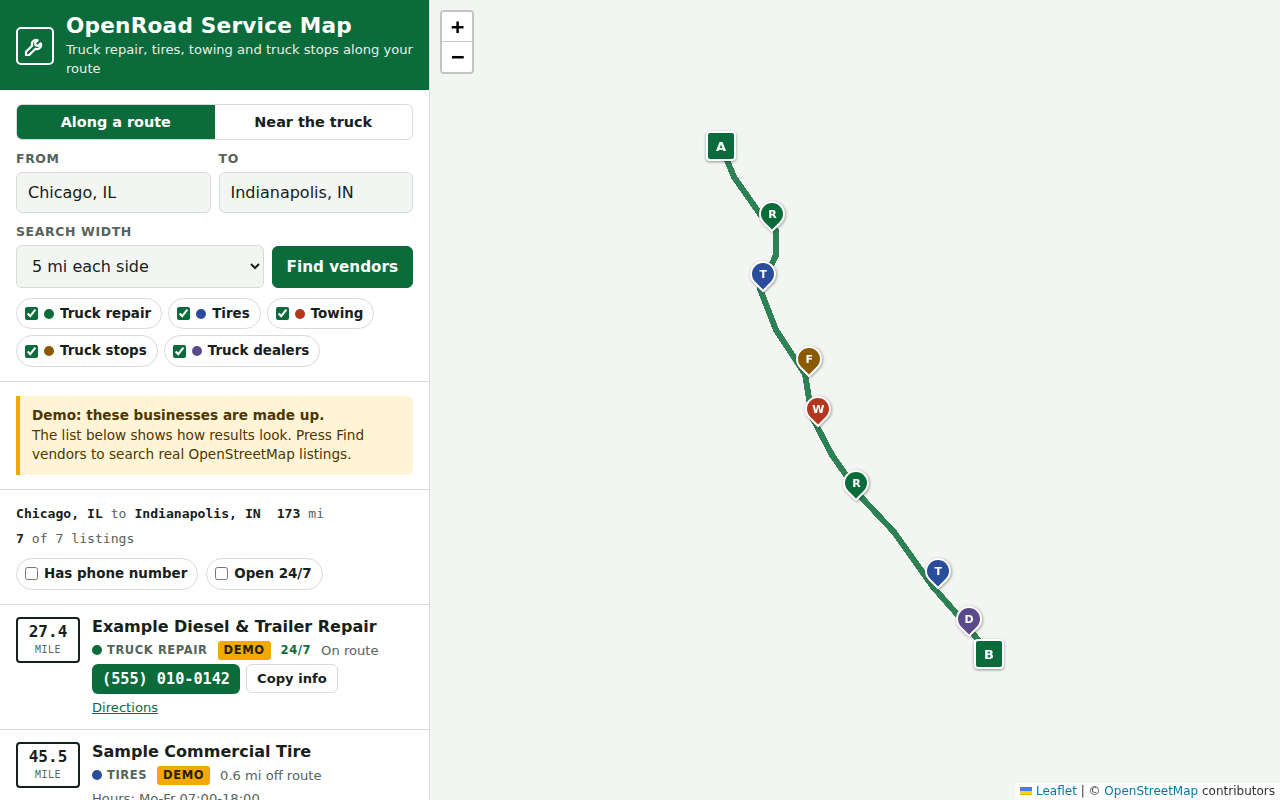
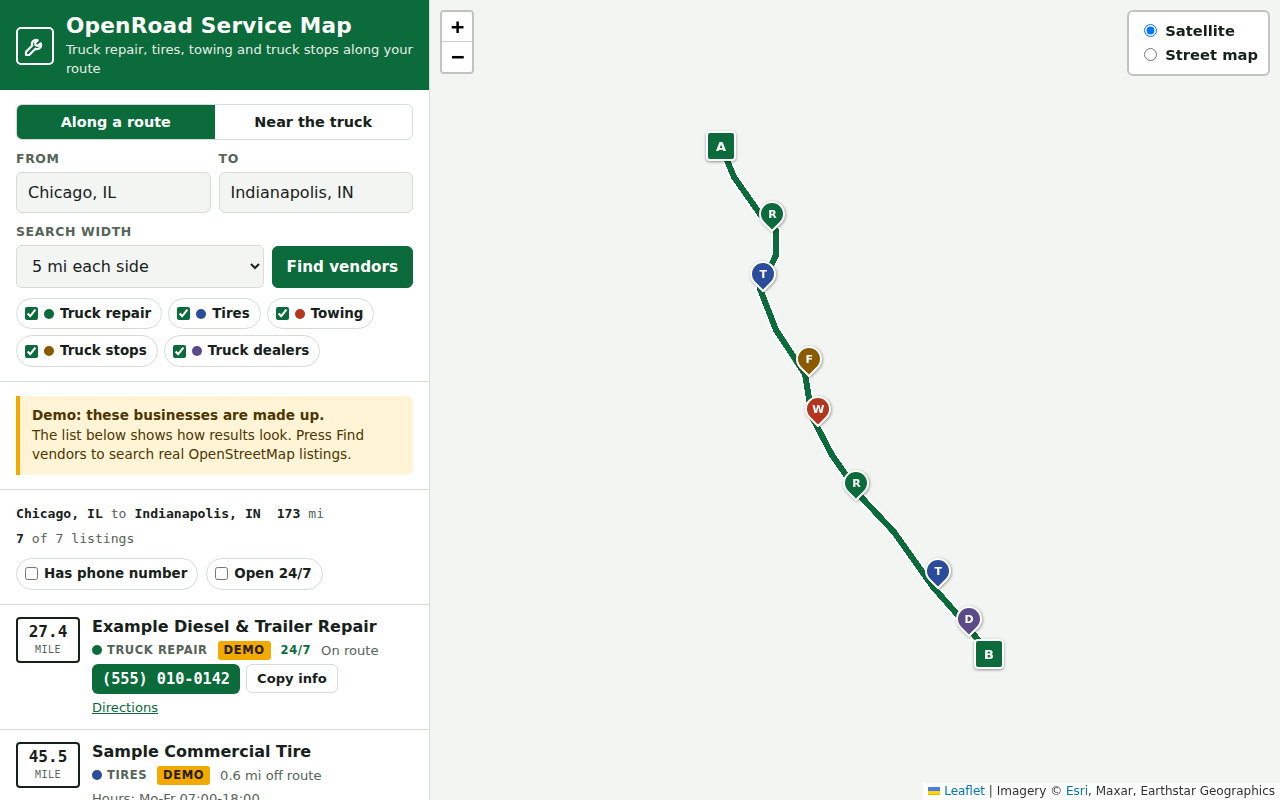
Use satellite imagery as the default map
Esri World Imagery with road and place label overlays, plus a switch
back to the OpenStreetMap street map. Route line gets a white outline
so it stays visible over imagery.

Claude-Session: https://claude.ai/code/session_0134BwgEtHejD4CoadjYPrJ5

diff --git a/index.html b/index.html
@@ -788,6 +788,8 @@ input[type="text"], select { font: 400 1rem var(--font-body); color: var(--fg); 
 .endpoint { width: 30px; height: 30px; border-radius: 4px; background: var(--sign); color: #fff; border: 2px solid #fff; display: grid; place-items: center; font: 800 13px var(--font-body); box-shadow: 0 1px 3px rgba(0,0,0,.4); }
 .leaflet-popup-content { font-family: var(--font-body); font-size: 13px; }
 .leaflet-container { font-family: var(--font-body); }
+.leaflet-control-layers-expanded { padding: 6px 10px; font-size: .85rem; font-weight: 600; background: var(--panel); color: var(--fg); border-radius: var(--radius); }
+.leaflet-control-layers-base label { margin: 2px 0; cursor: pointer; }
 
 @media (max-width: 760px) {
   .app { grid-template-columns: 1fr; grid-template-rows: auto 42vh auto; height: auto; }
@@ -896,9 +898,18 @@ input[type="text"], select { font: 400 1rem var(--font-body); color: var(--fg); 
 
   // ---------- map ----------
   const map = L.map("map", { zoomControl: true }).setView([39.8, -96], 4);
-  L.tileLayer("https://tile.openstreetmap.org/{z}/{x}/{y}.png", {
+  const ESRI = "https://server.arcgisonline.com/ArcGIS/rest/services/";
+  const esriAttr = 'Imagery &copy; <a href="https://www.esri.com/">Esri</a>, Maxar, Earthstar Geographics';
+  const satellite = L.layerGroup([
+    L.tileLayer(ESRI + "World_Imagery/MapServer/tile/{z}/{y}/{x}", { maxZoom: 19, attribution: esriAttr }),
+    L.tileLayer(ESRI + "Reference/World_Transportation/MapServer/tile/{z}/{y}/{x}", { maxZoom: 19 }),
+    L.tileLayer(ESRI + "Reference/World_Boundaries_and_Places/MapServer/tile/{z}/{y}/{x}", { maxZoom: 19 }),
+  ]);
+  const streets = L.tileLayer("https://tile.openstreetmap.org/{z}/{x}/{y}.png", {
     maxZoom: 19, attribution: '&copy; <a href="https://www.openstreetmap.org/copyright">OpenStreetMap</a> contributors',
-  }).addTo(map);
+  });
+  satellite.addTo(map);
+  L.control.layers({ "Satellite": satellite, "Street map": streets }, null, { collapsed: false, position: "topright" }).addTo(map);
   const layer = L.layerGroup().addTo(map);
 
   // ---------- category chips ----------
@@ -1074,7 +1085,8 @@ nwr["name"~"towing|wrecker",i]${A};
   });
 
   function drawRoute(pts, a, b) {
-    L.polyline(pts, { color: cssVar("--sign"), weight: 6, opacity: .85 }).addTo(layer);
+    L.polyline(pts, { color: "#ffffff", weight: 10, opacity: .9 }).addTo(layer);
+    L.polyline(pts, { color: cssVar("--sign"), weight: 6, opacity: 1 }).addTo(layer);
     endpoint([a.lat, a.lon], "A", a.label); endpoint([b.lat, b.lon], "B", b.label);
     map.fitBounds(L.latLngBounds(pts), { padding: [30, 30] });
   }
